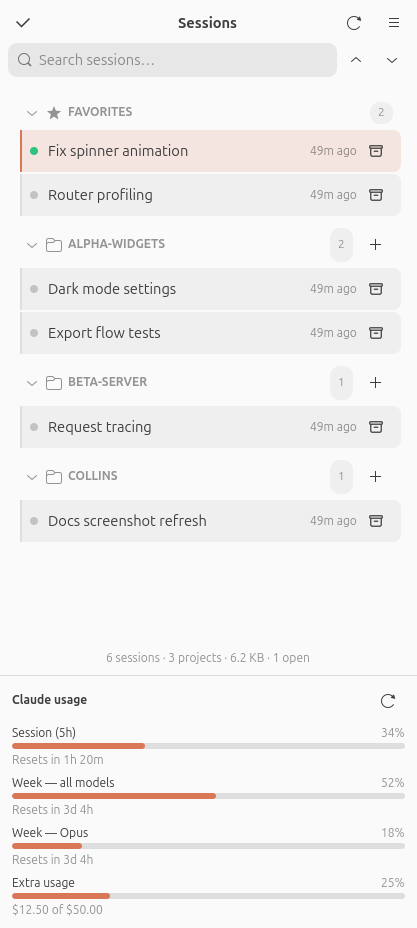
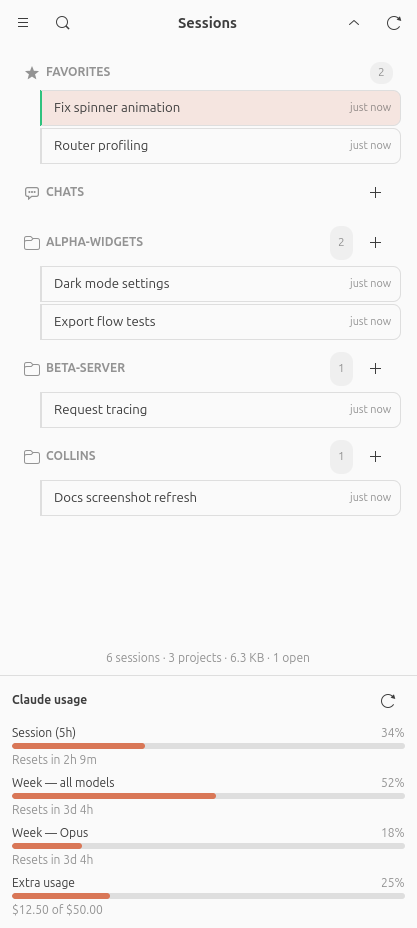
feat(sidebar): fold search behind a button, one accordion toggle, select mode into the menu (#75)
Every list-level control now lives in the sidebar's header bar, and the
permanent search row is gone — the session list starts right under the
header.

| Before | After |
| --- | --- |
| <img
src="https://raw.githubusercontent.com/episode6/screenshots/main/collins/sidebar-search-toggle/sidebar-before-20260730-072723.png"
width="330" alt="Sidebar header before: select-mode checkbox, and a
search row with collapse/expand buttons" /> | <img
src="https://raw.githubusercontent.com/episode6/screenshots/main/collins/sidebar-search-toggle/sidebar-after-20260730-075015.png"
width="330" alt="Sidebar header after: menu and search on the left,
accordion toggle and refresh on the right — no search row" /> |

## What changed

- **Search folds away behind a button.** Clicking the magnifier puts the
search entry in the title's place — it stretches across the header,
stopping
at the buttons, which all stay reachable — and turns the button into an
**X**; the X (or `Esc`) closes search and restores the unfiltered list.
  `Ctrl+Shift+F` opens it and focuses it, as before.
- **One accordion toggle instead of two buttons.** Collapse-all and
expand-all
merge into a single header button, left of refresh: it folds every group
away, then flips to `v` and expands them all once nothing is left open.
- **Select mode moves into the menu** as *Select multiple sessions* — a
stateful `win.select-sessions` action, so the menu item carries a
checkmark
[…]

diff --git a/collins/sidebar.py b/collins/sidebar.py
@@ -532,50 +532,50 @@ class SessionSidebar(Gtk.Box):
         # AdwOverlaySplitView coordinating the two bars, hide them here so they
         # aren't duplicated at the pane boundary.
         header.set_show_end_title_buttons(False)
-        header.set_title_widget(Adw.WindowTitle(title=_("Sessions")))
+        self._header = header
+        self._window_title = Adw.WindowTitle(title=_("Sessions"))
+        header.set_title_widget(self._window_title)
 
-        self.select_btn = Gtk.ToggleButton(icon_name="object-select-symbolic")
-        self.select_btn.set_tooltip_text(_("Select sessions"))
-        self.select_btn.connect("toggled", lambda b: self._set_selection_mode(b.get_active()))
-        header.pack_start(self.select_btn)
+        # Search is folded away behind a button: it costs the list a whole row
+        # when it sits there permanently, and it is reached a handful of times
+        # a session. Opening it hands the entry everything between the header's
+        # buttons (see _set_search_active).
+        self.search_entry = Gtk.SearchEntry(placeholder_text=_("Search sessions…"), hexpand=True)
+        self.search_entry.connect("search-changed", lambda *_: self._invalidate())
+        self.search_entry.connect("stop-search", lambda *_: self.search_btn.set_active(False))
 
         menu = Gio.Menu()
+        menu.append(_("Select multiple sessions"), "win.select-sessions")
         menu.append(_("Open session file…"), "win.open-session-file")
         menu.append(_("Show archived sessions"), "win.show-archived")
         menu.append(_("Delete archived sessions…"), "win.trash-archived")
         menu.append(_("MCP servers"), "win.mcp-servers")
         menu.append(_("Preferences"), "win.preferences")
         menu.append(_("About Collins"), "win.about")
-        header.pack_end(Gtk.MenuButton(icon_name="open-menu-symbolic", menu_model=menu))
+        # Menu and search share the left end, so the header's weight is even:
+        # two buttons on each side of the title.
+        self._menu_btn = Gtk.MenuButton(icon_name="open-menu-symbolic", menu_model=menu)
+        header.pack_start(self._menu_btn)
 
-        refresh_btn = Gtk.Button(icon_name="view-refresh-symbolic")
-        refresh_btn.set_tooltip_text(_("Refresh session list"))
-        refresh_btn.set_action_name("win.refresh")
-        header.pack_end(refresh_btn)
+        self.search_btn = Gtk.ToggleButton(icon_name="system-search-symbolic")
+        self.search_btn.set_tooltip_text(_("Search sessions"))
+        self.search_btn.connect("toggled", lambda b: self._set_search_active(b.get_active()))
+        header.pack_start(self.search_btn)
+
+        self._refresh_btn = Gtk.Button(icon_name="view-refresh-symbolic")
+        self._refresh_btn.set_tooltip_text(_("Refresh session list"))
+        self._refresh_btn.set_action_name("win.refresh")
+        header.pack_end(self._refresh_btn)
+
+        # One button for both directions: it folds every group away, and once
+        # nothing is left expanded it opens them all again.
+        self._collapse_btn = Gtk.Button()
+        self._collapse_btn.connect(
+            "clicked", lambda *_: self._set_all_collapsed(not self._all_collapsed())
+        )
+        header.pack_end(self._collapse_btn)
+        self._update_collapse_button()
         self._view.add_top_bar(header)
-
-        # -- search + accordion controls --------------------------------------
-        self.search_entry = Gtk.SearchEntry(placeholder_text=_("Search sessions…"), hexpand=True)
-        self.search_entry.connect("search-changed", lambda *_: self._invalidate())
-
-        collapse_all = Gtk.Button(icon_name="pan-up-symbolic")
-        collapse_all.add_css_class("flat")
-        collapse_all.set_tooltip_text(_("Collapse all groups"))
-        collapse_all.connect("clicked", lambda *_: self._set_all_collapsed(True))
-
-        expand_all = Gtk.Button(icon_name="pan-down-symbolic")
-        expand_all.add_css_class("flat")
-        expand_all.set_tooltip_text(_("Expand all groups"))
-        expand_all.connect("clicked", lambda *_: self._set_all_collapsed(False))
-
-        search_box = Gtk.Box(orientation=Gtk.Orientation.HORIZONTAL, spacing=2)
-        search_box.set_margin_start(8)
-        search_box.set_margin_end(8)
-        search_box.set_margin_bottom(6)
-        search_box.append(self.search_entry)
-        search_box.append(collapse_all)
-        search_box.append(expand_all)
-        self._view.add_top_bar(search_box)
 
         # -- list ------------------------------------------------------------
         self.list = Gtk.ListBox()
@@ -757,6 +757,7 @@ class SessionSidebar(Gtk.Box):
                 self._rows[item.session_id] = row
                 self.list.append(row)
         self._apply_selection_to_rows()
+        self._update_collapse_button()
 
     def _apply_selection_to_rows(self) -> None:
         for row in self._rows.values():
@@ -800,7 +801,29 @@ class SessionSidebar(Gtk.Box):
         self._rebuild_rows()
         self._invalidate()
 
+    # -- search ------------------------------------------------------------------
+
+    def _set_search_active(self, active: bool) -> None:
+        """Swap the sidebar's title for the search entry, and back.
+
+        The entry takes the title's place, so it stretches across everything
+        between the header's buttons — those all stay put and reachable, and
+        the X the search button turns into folds the entry away again.
+        """
+        self.search_btn.set_icon_name(
+            "window-close-symbolic" if active else "system-search-symbolic"
+        )
+        self.search_btn.set_tooltip_text(_("Close search") if active else _("Search sessions"))
+        if active:
+            self._header.set_title_widget(self.search_entry)
+            self.search_entry.grab_focus()
+        else:
+            self.search_entry.set_text("")  # closing search unfilters the list
+            self._header.set_title_widget(self._window_title)
+
     def focus_search(self) -> None:
+        """Open search if it is folded away, and put the cursor in it."""
+        self.search_btn.set_active(True)
         self.search_entry.grab_focus()
 
     # -- filtering / grouping ----------------------------------------------------
@@ -838,6 +861,7 @@ class SessionSidebar(Gtk.Box):
         header = self._header_rows.get(group_key)
         if header is not None:
             header.set_collapsed(group_key in self._collapsed)
+        self._update_collapse_button()
         self._invalidate()
 
     def _set_all_collapsed(self, collapsed: bool) -> None:
@@ -847,7 +871,19 @@ class SessionSidebar(Gtk.Box):
         )
         for group_key, header in self._header_rows.items():
             header.set_collapsed(group_key in self._collapsed)
+        self._update_collapse_button()
         self._invalidate()
+
+    def _all_collapsed(self) -> bool:
+        return bool(self._header_rows) and set(self._header_rows) <= self._collapsed
+
+    def _update_collapse_button(self) -> None:
+        """Point the accordion toggle at whichever move is left to make."""
+        expands = self._all_collapsed()
+        self._collapse_btn.set_icon_name("pan-down-symbolic" if expands else "pan-up-symbolic")
+        self._collapse_btn.set_tooltip_text(
+            _("Expand all groups") if expands else _("Collapse all groups")
+        )
 
     # -- drag & drop project reordering ---------------------------------------
 
@@ -1076,7 +1112,9 @@ class SessionSidebar(Gtk.Box):
             self.action_bar.pack_end(button)
         return self.action_bar
 
-    def _set_selection_mode(self, active: bool) -> None:
+    def set_selection_mode(self, active: bool) -> None:
+        """Show a checkbox on every row and reveal the bulk action bar. Driven
+        by the window's "Select multiple sessions" menu item."""
         self._selection_mode = active
         if not active:
             self._selected.clear()

diff --git a/po/generate.py b/po/generate.py
@@ -1,7 +1,7 @@
 #!/usr/bin/env python3
 # Modified from the original agent-session-manager
 # (https://github.com/r4nd3l/agent-session-manager, GPL-3.0) in the ghackett
-# fork. Last modified: 2026-07-28. Full change history: git log for this file.
+# fork. Last modified: 2026-07-30. Full change history: git log for this file.
 """Generate per-language .po files and compile .mo into the package.
 
 Run from the repo root:  python3 po/generate.py
@@ -130,12 +130,14 @@ TRANSLATIONS: dict[str, dict[str, str]] = {
         "Remove from favorites": "Eltávolítás a kedvencekből",
         "Add to favorites": "Hozzáadás a kedvencekhez",
         "Sessions": "Munkamenetek",
-        "Select sessions": "Munkamenetek kijelölése",
+        "Select multiple sessions": "Több munkamenet kijelölése",
         "Show archived sessions": "Archivált munkamenetek megjelenítése",
         "MCP servers": "MCP-kiszolgálók",
         "About Collins": "A Collins névjegye",
         "Refresh session list": "Munkamenetlista frissítése",
         "Search sessions…": "Munkamenetek keresése…",
+        "Search sessions": "Munkamenetek keresése",
+        "Close search": "Keresés bezárása",
         "Collapse all groups": "Összes csoport összecsukása",
         "Expand all groups": "Összes csoport kibontása",
         "No sessions found": "Nincs találat",
@@ -381,12 +383,14 @@ TRANSLATIONS: dict[str, dict[str, str]] = {
         "Remove from favorites": "Aus Favoriten entfernen",
         "Add to favorites": "Zu Favoriten hinzufügen",
         "Sessions": "Sitzungen",
-        "Select sessions": "Sitzungen auswählen",
+        "Select multiple sessions": "Mehrere Sitzungen auswählen",
         "Show archived sessions": "Archivierte Sitzungen anzeigen",
         "MCP servers": "MCP-Server",
         "About Collins": "Über Collins",
         "Refresh session list": "Sitzungsliste aktualisieren",
         "Search sessions…": "Sitzungen suchen…",
+        "Search sessions": "Sitzungen suchen",
+        "Close search": "Suche schließen",
         "Collapse all groups": "Alle Gruppen einklappen",
         "Expand all groups": "Alle Gruppen ausklappen",
         "No sessions found": "Keine Sitzungen gefunden",
@@ -636,12 +640,14 @@ TRANSLATIONS: dict[str, dict[str, str]] = {
         "Remove from favorites": "Quitar de favoritos",
         "Add to favorites": "Añadir a favoritos",
         "Sessions": "Sesiones",
-        "Select sessions": "Seleccionar sesiones",
+        "Select multiple sessions": "Seleccionar varias sesiones",
         "Show archived sessions": "Mostrar sesiones archivadas",
         "MCP servers": "Servidores MCP",
         "About Collins": "Acerca de Collins",
         "Refresh session list": "Actualizar la lista de sesiones",
         "Search sessions…": "Buscar sesiones…",
+        "Search sessions": "Buscar sesiones",
+        "Close search": "Cerrar la búsqueda",
         "Collapse all groups": "Contraer todos los grupos",
         "Expand all groups": "Expandir todos los grupos",
         "No sessions found": "No se encontraron sesiones",
@@ -890,12 +896,14 @@ TRANSLATIONS: dict[str, dict[str, str]] = {
         "Remove from favorites": "Retirer des favoris",
         "Add to favorites": "Ajouter aux favoris",
         "Sessions": "Sessions",
-        "Select sessions": "Sélectionner des sessions",
+        "Select multiple sessions": "Sélectionner plusieurs sessions",
         "Show archived sessions": "Afficher les sessions archivées",
         "MCP servers": "Serveurs MCP",
         "About Collins": "À propos de Collins",
         "Refresh session list": "Actualiser la liste des sessions",
         "Search sessions…": "Rechercher des sessions…",
+        "Search sessions": "Rechercher des sessions",
+        "Close search": "Fermer la recherche",
         "Collapse all groups": "Réduire tous les groupes",
         "Expand all groups": "Développer tous les groupes",
         "No sessions found": "Aucune session trouvée",
@@ -1039,7 +1047,7 @@ TRANSLATIONS: dict[str, dict[str, str]] = {
 _HEADER = (
     "# Modified from the original agent-session-manager\n"
     "# (https://github.com/r4nd3l/agent-session-manager, GPL-3.0) in the ghackett\n"
-    "# fork. Last modified: 2026-07-28. Full change history: git log for this file.\n"
+    "# fork. Last modified: 2026-07-30. Full change history: git log for this file.\n"
     "# Generated by po/generate.py — do not edit by hand.\n"
     'msgid ""\n'
     'msgstr ""\n'

diff --git a/collins/window.py b/collins/window.py
@@ -525,6 +525,12 @@ class MainWindow(Adw.ApplicationWindow):
         show_archived.connect("change-state", self._on_show_archived)
         self.add_action(show_archived)
 
+        select_sessions = Gio.SimpleAction.new_stateful(
+            "select-sessions", None, GLib.Variant.new_boolean(False)
+        )
+        select_sessions.connect("change-state", self._on_select_sessions)
+        self.add_action(select_sessions)
+
     def _install_shortcuts(self) -> None:
         controller = Gtk.ShortcutController()
         controller.set_propagation_phase(Gtk.PropagationPhase.CAPTURE)
@@ -1698,6 +1704,10 @@ class MainWindow(Adw.ApplicationWindow):
     def _on_show_archived(self, action: Gio.SimpleAction, value: GLib.Variant) -> None:
         action.set_state(value)
         self.store.set_show_archived(value.get_boolean())
+
+    def _on_select_sessions(self, action: Gio.SimpleAction, value: GLib.Variant) -> None:
+        action.set_state(value)
+        self.sidebar.set_selection_mode(value.get_boolean())
 
     def _sync_trash_archived_action(self) -> None:
         self._trash_archived_action.set_enabled(bool(self.store.archived_sessions()))

diff --git a/.agents/capture-screenshots/scripts/capture-docs.py b/.agents/capture-screenshots/scripts/capture-docs.py
@@ -76,6 +76,7 @@ def stage(win) -> None:
     if panel:
         win.tab_view.get_selected_page().get_child().show_panel()
     if scene == "sidebar-search":
+        win.sidebar.search_btn.set_active(True)  # search hides behind its button
         win.sidebar.search_entry.set_text("dark")
     elif scene == "quick-switcher":
         win._quick_switch()

diff --git a/README.md b/README.md
@@ -23,7 +23,7 @@ Collins is a fork of [agent-session-manager](https://github.com/r4nd3l/agent-ses
 
 Features:
 
-- **Sidebar** lists every session found on disk (for Claude Code, under `~/.claude/projects/`), grouped by project (collapsible headers, with collapse-all/expand-all buttons next to the search box), with a **Favorites** section pinned on top — star a session to move it there. **Drag a project header** to rearrange projects — the order and each project's expanded state persist across restarts. A **search box** filters by name, project, preview, or session id, and the list **updates live** as sessions are created or written to.
+- **Sidebar** lists every session found on disk (for Claude Code, under `~/.claude/projects/`), grouped by project (collapsible headers, with a collapse-all/expand-all toggle in the sidebar header), with a **Favorites** section pinned on top — star a session to move it there. **Drag a project header** to rearrange projects — the order and each project's expanded state persist across restarts. The **search button** (or `Ctrl+Shift+F`) opens a search box across the sidebar header that filters by name, project, preview, or session id, and the list **updates live** as sessions are created or written to.
 - Sessions can be given **custom names** (right-click → Rename…, or rename the session's tab), and unnamed sessions get an **auto-generated title**: pre-existing sessions are titled locally on launch (first 10 words of the initial prompt), while sessions created during an app run have their first prompt summarized to ≤5 words by a headless `claude -p --model haiku` run — the same CLI and login the whole app is based on, no extra credentials needed. Titles are persisted so each is generated only once; right-click → **Regenerate name** re-runs the model for one session, and a Preferences toggle turns auto-titling off (a manual rename always wins). Names, favorites, and archived sessions persist in `~/.config/collins/state.json` — your agents' own session files are never modified.
 - **Clicking a session** opens a tab in the main area; each tab is an embedded **VTE terminal** running your `$SHELL` with the agent's resume command (`claude --resume <session-id>` for Claude Code) typed into it, in the directory the session last worked in (worktree-aware). If the session is still running detached, Collins **re-attaches** to the live process (`claude attach`) instead of resuming a copy. When the agent exits you drop to a shell prompt; the tab closes when the shell exits. Closing a tab asks the agent to exit cleanly (Claude Code's `/exit`) in the background first — or, for agents that support it, the close dialog offers to **background the session** instead (Claude Code's `/bg`), leaving it running detached to re-attach to later. On the next launch the app **reopens the session you had focused** when you closed it, and the window comes back at its last size.
 - **In-terminal search** with a find bar (`Ctrl+Shift+G`) over the tab's scrollback.
@@ -35,7 +35,7 @@ Features:
 - Each tab has a slim **footer** showing the agent's live working directory (click to copy; worktree-aware) and the current **git branch** (⎇), plus the terminal-panel buttons.
 - **Right-click a session** for the full action set: open, open in [Ghostty](https://ghostty.org) (external window — Ghostty can't be embedded), fork (`--fork-session`), rename, regenerate name, favorite, **details** (messages/models/tokens, a peek at recent messages, and MCP servers/usage), copy session id, export as Markdown, reveal transcript, archive, move the transcript to trash, or delete permanently. **Right-click a project header** to start a new session there or archive the whole project — projects with no visible sessions still show their header (with a `+` button) so a folder stays reachable.
 - **Desktop notifications** when a background session goes quiet after producing output — click to jump to that tab (toggle in Preferences).
-- **Select mode** (checkbox button in the sidebar header) for bulk actions: open, star, archive, or trash many sessions at once.
+- **Select mode** (menu → *Select multiple sessions*) for bulk actions: open, star, archive, or trash many sessions at once.
 - **New session** (tab icon in the header) starts a fresh agent session (`claude`) in the **visible session's project** — no dialog needed; with no session visible it asks for a folder. Every project header also has a **`+` button** to start a session right there, and a just-started session shows a **"New Thread"** placeholder row until the agent writes its transcript.
 - **Quick switcher** (`Ctrl+Shift+K`) jumps to any session by type-ahead; the sidebar is **resizable** and its width is remembered.
 - **MCP servers browser** (menu → MCP servers): a read-only view of every MCP server configured in `~/.claude.json`, global and per-project.

diff --git a/docs/guide/features.md b/docs/guide/features.md
@@ -9,8 +9,9 @@ fork. Last modified: 2026-07-30. Full change history: git log for this file.
 ## Sidebar
 
 - **Every session** under `~/.claude/projects/`, **grouped by project** with
-  collapsible headers (and collapse-all / expand-all buttons). Which projects
-  are expanded is remembered across restarts.
+  collapsible headers (and one header-bar toggle that collapses every group, or
+  opens them all again). Which projects are expanded is remembered across
+  restarts.
 - **Drag a project header** up or down to rearrange projects; the order is
   yours and persists (new projects join the list alphabetically).
 - A **Favorites** section pinned on top — star any session to move it there.
@@ -27,9 +28,9 @@ fork. Last modified: 2026-07-30. Full change history: git log for this file.
   project; right-click a header for *New session here* and *Archive project*.
   Projects whose sessions are all archived or favorited still show their header,
   so the folder stays reachable.
-- A **search box** that filters by name, project, message preview, or session
-  ID, plus a footer showing session, project, transcript-size, and open-tab
-  counts.
+- A **search button** that opens a search box across the sidebar header,
+  filtering by name, project, message preview, or session ID, plus a footer
+  showing session, project, transcript-size, and open-tab counts.
 - **Live updates** — sessions appear and reorder as they're created or written
   to, via a filesystem watch. A just-started session shows a **"New Thread"**
   placeholder row until the agent writes its transcript.
@@ -50,7 +51,9 @@ fork. Last modified: 2026-07-30. Full change history: git log for this file.
 
 ![Sidebar with the Favorites section expanded](/img/sidebar-favorites.png)
 
-The search box filters the whole list as you type:
+The search button (or `Ctrl+Shift+F`) opens the search box across the sidebar
+header, and it filters the whole list as you type — the **X** closes it again
+and restores the unfiltered list:
 
 ![Filtering sessions with the search box](/img/sidebar-search.png)
 
@@ -190,7 +193,7 @@ card overlays it — answer with a click instead of typing a number.
 
 ## Bulk actions & housekeeping
 
-- **Select mode** (checkbox button in the sidebar header) to open, star,
+- **Select mode** (sidebar menu → *Select multiple sessions*) to open, star,
   archive, or trash many sessions at once.
 - **Archive** sessions you're done with (kept on disk, toggle "Show archived"
   to see them and restore any of them); archiving a session with an open tab

diff --git a/docs/guide/keyboard-shortcuts.md b/docs/guide/keyboard-shortcuts.md
@@ -1,14 +1,14 @@
 <!--
 Modified from the original agent-session-manager
 (https://github.com/r4nd3l/agent-session-manager, GPL-3.0) in the ghackett
-fork. Last modified: 2026-07-28. Full change history: git log for this file.
+fork. Last modified: 2026-07-30. Full change history: git log for this file.
 -->
 
 # Keyboard Shortcuts
 
 | Shortcut | Action |
 | --- | --- |
-| `Ctrl+Shift+F` | Focus the sidebar search |
+| `Ctrl+Shift+F` | Open the sidebar search (`Esc` closes it) |
 | `Ctrl+Shift+T` | New session |
 | `Ctrl+Shift+N` | New window |
 | `Ctrl+W` | Close the current tab |
